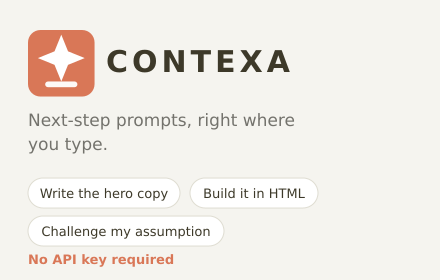
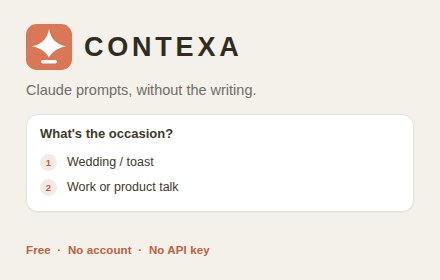
CONTEXA v0.9.47. Full changelog in CHANGELOG.md.
## 0.9.47 â€” Extension only (Backend stays 0.9.41)

*A pre-launch audit of the surfaces, not the code. The product moved sixteen
releases ago and three of its descriptions never followed.*

### The settings page was advertising chips

`options.html`, the first thing a new install shows:

> *"When the answer finishes, **a row of suggestions appears under it**. Each one
> is a good next thing to ask. Click one and the full message is written into
> your message box."*

Every sentence is pre-0.9.30. **"Under it" was wrong from 0.9.30 too**, when the
card moved above the composer. It now describes what actually happens: one short
question at a time, above the message box, never more than four, answers already
written, quiet when the reply left nothing worth asking.

**The gap that let it live four months: nothing in this suite had ever read a
user-facing sentence.** Ids, counts, selectors, storage, behaviour â€” all
covered. Prose, never. Ten assertions now check it, including a dead-vocabulary
list; restoring the old sentence fails four of them.

Same defect, same day, three surfaces: this page, both promo tiles (rebuilt â€”
the marquee had a literal `SUGGESTED NEXT STEPS` header), and every screenshot
in `publishing/screenshots/`, which is now fronted by a README saying so.

### A hidden card could still be tabbed into

`.wrap.away` set `opacity:0` and `pointer-events:none` â€” **neither removes an
[…]

diff --git a/extension/content.js b/extension/content.js
@@ -152,10 +152,27 @@
   .skip:hover{color:var(--accent);border-color:var(--accent)}
   .cxbusy{padding:12px;font-size:12px;color:var(--text2);animation:cxpulse 1.4s ease-in-out infinite}
   /* 0.9.33 — collapse rather than fade. A transparent card still occupies its
-     height, and the complaint was about reading space, not visibility. */
-  .wrap.away{opacity:0;pointer-events:none;max-height:0;margin:0;overflow:hidden;
-    transform:translateY(4px)}
-  .wrap{transition:opacity .22s ease,transform .22s ease,max-height .24s ease,margin .24s ease}
+     height, and the complaint was about reading space, not visibility.
+
+     0.9.47 — two corrections. "visibility:hidden" because opacity and
+     pointer-events do NOT remove an element from the tab order: clipped content
+     stays focusable, so Tab could land on a button nobody can see — and focus
+     inside the card makes busy() true, which forces the card open again. A
+     hidden card that reappears when you tab past it is worse than one that
+     never hid. The delay lets the fade finish before it becomes unreachable.
+
+     And ".wrap" needs a real max-height to animate FROM: the base value was
+     "none", "none -> 0" does not interpolate, so the height snapped shut while
+     opacity spent .22s fading something already zero-tall. The CSS described a
+     fold it never performed. 600px clears a four-option card on any screen and
+     never clips, because the base rule sets no overflow. */
+  .wrap.away{opacity:0;pointer-events:none;visibility:hidden;
+    max-height:0;margin:0;overflow:hidden;transform:translateY(4px);
+    transition:opacity .2s ease,transform .2s ease,max-height .22s ease,
+      margin .22s ease,visibility 0s linear .2s}
+  .wrap{max-height:600px;
+    transition:opacity .22s ease,transform .22s ease,max-height .24s ease,
+      margin .24s ease,visibility 0s linear 0s}
   /* 0.9.33 — touch. Confirmed working on Edge, Lemur, Mises and Quetta, where
      the desktop row heights were under the 44px minimum and the nav glyphs were
      roughly 14px of tappable area. */
@@ -277,6 +294,10 @@
      `dismissStreak` resets on any USE (answering, composing, a rough ask),
      because two dismissals separated by a real interaction are not a pattern. */
   let hiddenForSession = false;
+  /* claude.ai flips theme by mutating the root element, not only by OS
+     preference, so a media query alone would miss an in-app toggle. */
+  let themeSync = null;
+  const themeObserver = new MutationObserver(() => { if (themeSync) themeSync(); });
   let dismissStreak = 0;
   const usedIt = () => { dismissStreak = 0; };
 
@@ -549,6 +570,18 @@
     const wrap = document.createElement('div');
     wrap.className = 'wrap';
     wrap.dataset.theme = isDark() ? 'dark' : 'light';
+    /* 0.9.47 — the theme was decided once and never revisited, so switching
+       claude.ai between light and dark left the open card in the old palette
+       until the next reply. Follow it instead. */
+    if (window.matchMedia) {
+      const mq = window.matchMedia('(prefers-color-scheme: dark)');
+      const sync = () => { if (wrap.isConnected) wrap.dataset.theme = isDark() ? 'dark' : 'light'; };
+      if (mq.addEventListener) mq.addEventListener('change', sync);
+      themeObserver.disconnect();
+      themeObserver.observe(document.documentElement,
+        { attributes: true, attributeFilter: ['class', 'style', 'data-mode', 'data-theme'] });
+      themeSync = sync;
+    }
     root.appendChild(wrap);
     host.before(holder);
     /* 0.9.44 — the render path had no voice. `[CONTEXA] grounding` proved a card

diff --git a/extension/options.html b/extension/options.html
@@ -154,14 +154,14 @@
     <div class="step">
       <span class="num">2</span>
       <div>
-        <p>When the answer finishes, a row of suggestions appears under it.</p>
-        <p class="sub">Each one is a good next thing to ask.</p>
+        <p>When the answer finishes, CONTEXA asks you a short question just above your message box.</p>
+        <p class="sub">One at a time, never more than four, with the answers already written for you. Pick one, or skip it. If the answer left nothing worth asking, it stays quiet.</p>
       </div>
     </div>
     <div class="step">
       <span class="num">3</span>
       <div>
-        <p>Click one and the full message is written into your message box.</p>
+        <p>When you've answered, it writes the whole prompt into your message box.</p>
         <p class="sub">You can edit it. Nothing is ever sent without you pressing send.</p>
       </div>
     </div>

diff --git a/LISTING.md b/LISTING.md
@@ -1,109 +1,43 @@
-# CONTEXA — Chrome Web Store listing
+# CONTEXA — store listing
 
-Paste-ready. Counts verified below.
+**This file is NOT the listing.** It described the chip-era product and went
+stale for sixteen releases, at which point it was still recommending a name the
+product had already stopped using.
 
----
+**Source of truth:** the `claude/CONTEXA-store-listing.md` project doc. It has
+the paste-ready description, the submission checklist, the asset specs and the
+timing rule for when the description may be published.
 
-## Name  (38 / 45 characters)
-
-```
-CONTEXA — Next-Step Prompt Suggestions
-```
-
-"Claude" is deliberately absent from the name. Chrome Web Store policy prohibits
-listings that imply affiliation with another company, and a name in the form
-"… for Claude" is a known trigger for that review. The integration is described in
-the body copy instead, which is normal and permitted nominative use.
-
-## Short description  (122 / 132 characters)
-
-```
-Reads the reply and hands you your next message, ready to send. No API key, no account, no setup - just better next steps.
-```
-
-Leads with the benefit, closes on the removed objection. "No API key, no account,
-no setup" is the phrase that converts — it answers the question every reader of an
-AI extension listing silently asks.
-
-## Detailed description  (453 words)
-
-```
-CONTEXA reads the reply and hands you your next message.
-
-When a reply finishes in your AI chat, up to five short chips appear beneath it — each one a complete next message, written and ready to send. Click a chip and the full text lands in your message box, where you read it, edit anything, and send it yourself. Nothing is ever sent for you.
-
-These aren't topic suggestions. Each chip is the message the assistant would ask you to send if it could: paste the exact file or error it's been reasoning about blindly; settle a fork its reply hedged ("Assume X. Redo under exactly that."); invite its questions when the goal is still fuzzy; give it permission to stop listing options and produce the complete version; or turn the problem around and attack it from the opposite side. Every chip must be earned by something the reply actually said — no quotable evidence, no chip. A reply blocked on one missing input gets one strong chip, not five fillers, so the number of chips tells you something true about where your conversation stands.
-
-Under the hood, every chip follows the playbook good prompt engineers use — one component at a time, real content, tight scope — applied for you, one message at a time.
-
-NOTHING TO SET UP
-
-No API key. No account. No sign-up, no credit card, no configuration screen. Install it, open your chat, send a message — the chips are there when the reply lands. A fair-use daily allowance is included at no cost.
-
-If you already have an Anthropic API key and want to remove the daily limit, you can add it in settings. That's entirely optional, and most people never will.
-
-HOW IT WORKS
-
-1. Install the extension and open your AI chat.
-2. Send a message. When the reply finishes, the chips appear underneath.
-3. Click one. The full message lands in your message box. Edit it or send it.
-
-PRIVACY
-
-CONTEXA runs on one site and touches no others. It sends only your latest message and the reply you just received — never your history, your other conversations, or your account details. Your conversation text is never stored. There are no accounts, no profiles, no tracking, no analytics, and no advertising. Nothing is sold or shared. If you choose to add an API key, it stays on your device.
-
-WHAT IT DOESN'T DO
-
-It doesn't score your writing, nag you, or interrupt your typing. Nothing covers the message box. And if it can't produce real suggestions, it tells you why in plain language instead of showing filler.
-
-CONTEXA is an independent project. It is not affiliated with, endorsed by, or sponsored by Anthropic.
-```
+Copy is kept there, not here, for one reason: **a file that duplicates the
+listing will drift from it, and a drifted listing is worse than no file at all.**
+Three surfaces proved that on 2026-08-23 — this file, the settings page, and both
+promo tiles were all still advertising suggestion chips.
 
 ---
 
-## Notes on the copy
+## The one thing worth preserving from the old version
 
-**The no-setup section sits second, not last.** It's the strongest differentiator
-you have: nearly every comparable extension demands the user paste an API key,
-and most installs die at that screen. Naming it early, with the specific
-objections spelled out (no key, no account, no sign-up, no credit card, no config
-screen), does more work than any feature description.
+It argued that **"Claude" should be absent from the extension name**, on the
+grounds that Chrome Web Store policy prohibits listings implying affiliation.
 
-**The optional-key paragraph is honest but demoted.** It exists so power users
-know the ceiling can be lifted, while the phrase "most people never will" keeps it
-from reading as a hidden requirement.
+**That was over-cautious, and the shipped name is
+`CONTEXA - Claude prompts, without the writing`.** Reasoning, checked against
+the policy on 2026-08-23:
 
-**Product name usage.** The body says "your AI chat" rather than naming the
-product repeatedly. Reviewers read repeated brand mentions as positioning; one
-factual mention plus the disclaimer is the safer shape.
+- The rule is about **impersonation and false endorsement** — *"don't represent
+  that your product is authorized by, endorsed by, or produced by another company
+  … if that is not the case."* It does not prohibit naming the service an
+  extension works with.
+- The name **leads with our own brand**, and describes a function rather than
+  claiming to be a first-party product.
+- The description carries an explicit non-affiliation line, which is mandatory
+  and must never be softened.
+- Omitting "Claude" cost the single most obvious search term for this extension,
+  which is a certain loss against a speculative risk.
 
-**The privacy section is specific, not reassuring.** "Never stored", "no
-analytics", "runs on one site" are checkable claims that match the code and the
-data disclosures. Vague privacy language invites scrutiny; precise language
-survives it.
+**What WOULD move this into real risk**, and is worth re-checking if any of it
+ever changes: a name that reads as first-party (`Claude Prompts`, `Claude
+Assistant`); Anthropic's wordmark or logo on any store asset; or copy that
+implies review, partnership or endorsement.
 
-**The last line before the disclaimer is the honesty state.** Saying it tells you
-why instead of showing filler is unusual for a listing and signals the product
-won't waste the reader's time.
-
-## Assets in `store-assets/`
-
-| File | Size | Where it goes | Required |
-|---|---|---|---|
-| `store-icon-128.png` | 128×128 | Store listing icon | Yes |
-| `promo-tile-440x280.png` | 440×280 | Small promotional tile | Yes |
-| `promo-marquee-1400x560.png` | 1400×560 | Marquee (featured placement) | No |
-
-**Do not swap the store icon for `extension/icons/icon128.png`.** They differ on
-purpose. The Web Store requires the listing icon to hold 96×96 of artwork inside
-the 128×128 canvas with 16 pixels of transparent padding on each side; the
-toolbar icon in the extension is full-bleed, which is correct there and wrong
-here.
-
-The small promo tile is listed as required for prominent store display, and
-extensions without one are ranked below extensions with one. The marquee is
-optional but is the only route to featured placement, so it costs nothing to
-include.
-
-Screenshots remain the four 1280×800 PNGs in `publishing/screenshots/`, in the
-order `1-chips`, `2-inserted`, `3-dark`, `4-settings`.
+Source: [Impersonation & Intellectual Property](https://developer.chrome.com/docs/webstore/program-policies/impersonation-and-intellectual-property)

diff --git a/CHANGELOG.md b/CHANGELOG.md
@@ -7,6 +7,72 @@ free to diverge, and the settings page labels them separately for that reason.
 
 ---
 
+## 0.9.47 — Extension only (Backend stays 0.9.41)
+
+*A pre-launch audit of the surfaces, not the code. The product moved sixteen
+releases ago and three of its descriptions never followed.*
+
+### The settings page was advertising chips
+
+`options.html`, the first thing a new install shows:
+
+> *"When the answer finishes, **a row of suggestions appears under it**. Each one
+> is a good next thing to ask. Click one and the full message is written into
+> your message box."*
+
+Every sentence is pre-0.9.30. **"Under it" was wrong from 0.9.30 too**, when the
+card moved above the composer. It now describes what actually happens: one short
+question at a time, above the message box, never more than four, answers already
+written, quiet when the reply left nothing worth asking.
+
+**The gap that let it live four months: nothing in this suite had ever read a
+user-facing sentence.** Ids, counts, selectors, storage, behaviour — all
+covered. Prose, never. Ten assertions now check it, including a dead-vocabulary
+list; restoring the old sentence fails four of them.
+
+Same defect, same day, three surfaces: this page, both promo tiles (rebuilt —
+the marquee had a literal `SUGGESTED NEXT STEPS` header), and every screenshot
+in `publishing/screenshots/`, which is now fronted by a README saying so.
+
+### A hidden card could still be tabbed into
+
+`.wrap.away` set `opacity:0` and `pointer-events:none` — **neither removes an
+element from the tab order.** Clipped content stays focusable, so Tab could land
+on a button nobody can see. And it self-amplified: focus inside the shadow root
+makes `busy()` true, which **forces the card open again**. Tabbing past a hidden
+card could pop it back.
+
+`visibility:hidden`, delayed 0.2s so it lands after the fade rather than cutting
+it.
+
+### The fold never folded
+
+`.wrap` had no base `max-height`, so it computed to `none`. **`none → 0` does
+not interpolate**: the height snapped shut while opacity spent 0.22s fading
+something already zero-tall. The CSS described an animation it never performed
+for fourteen releases. A 600px base gives it something to animate from — clear
+of a four-option card on any screen, and it cannot clip, since the base rule
+sets no overflow.
+
+### The theme froze at mount
+
+Decided once in `shell()` and never revisited, so switching claude.ai between
+light and dark left an open card in the old palette. Now follows both the media
+query and a `MutationObserver` on the root element — because the app toggles
+theme itself, which a media query alone would miss.
+
+### LISTING.md
+
+Replaced with a pointer to the project doc, **keeping the one argument worth
+preserving**: it had reasoned that "Claude" should be absent from the extension
+name on store-policy grounds. Checked against the policy — the rule targets
+impersonation and false endorsement, not naming the service you work with — the
+name leads with our own brand and the description carries the mandatory
+non-affiliation line. Over-cautious, and the reasoning is recorded along with
+what *would* make it a real risk.
+
+---
+
 ## 0.9.46 — Extension only (Backend stays 0.9.41)
 
 *Fourth rule, and the first one that is about the reader instead of the page.*

diff --git a/publishing/screenshots/README.md b/publishing/screenshots/README.md
@@ -1,0 +1,16 @@
+# DO NOT UPLOAD THESE
+
+Every PNG in this folder is **chip-era**. `1-chips.png` shows a row of five
+suggestion chips — a mechanism removed in 0.9.30 and gone for sixteen releases.
+
+Uploading them advertises a product that does not exist.
+
+The current screenshots — five light and five dark, 1280×800 exactly — were
+built on 2026-08-22 and are **not in this repo**. They were delivered into the
+conversation and live elsewhere on the owner's disk.
+
+**Before any store submission: confirm in the Developer Dashboard which
+screenshots are actually live.** The spec they were shot to is in the
+`claude/CONTEXA-store-listing.md` project doc.
+
+These files are kept only so the chip era has a record. Nothing here is current.
